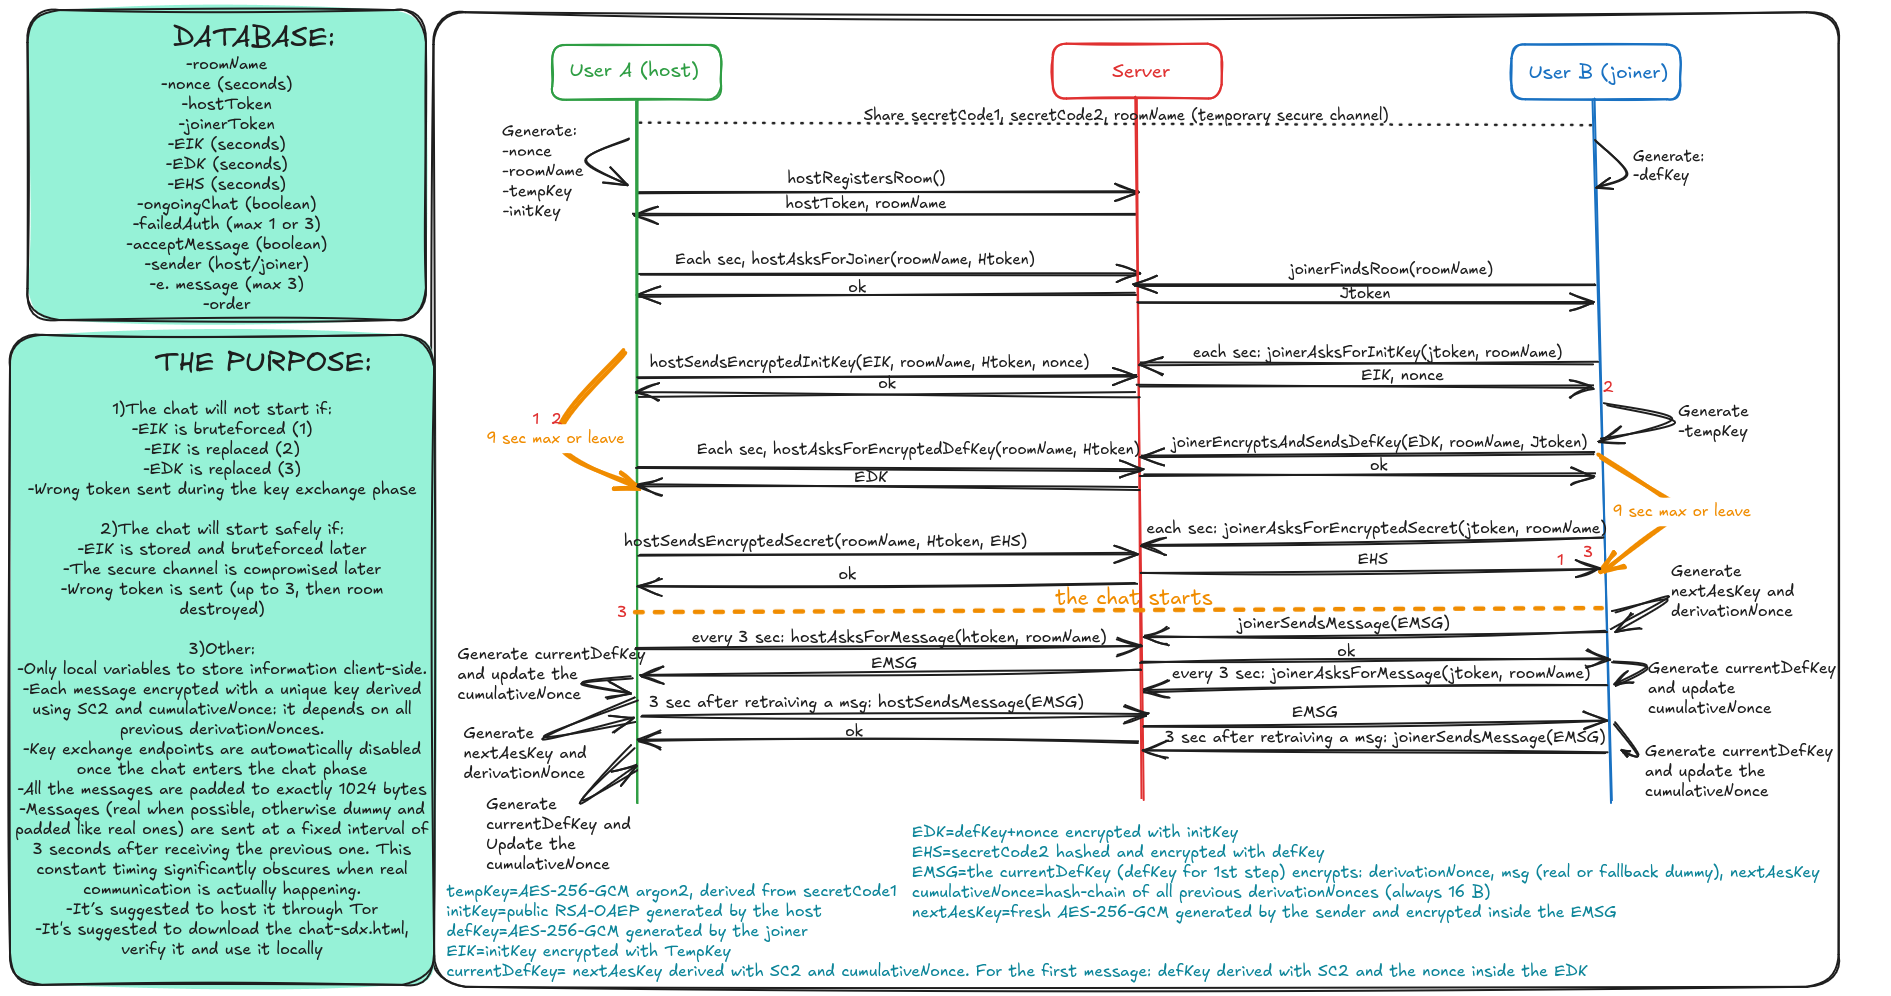
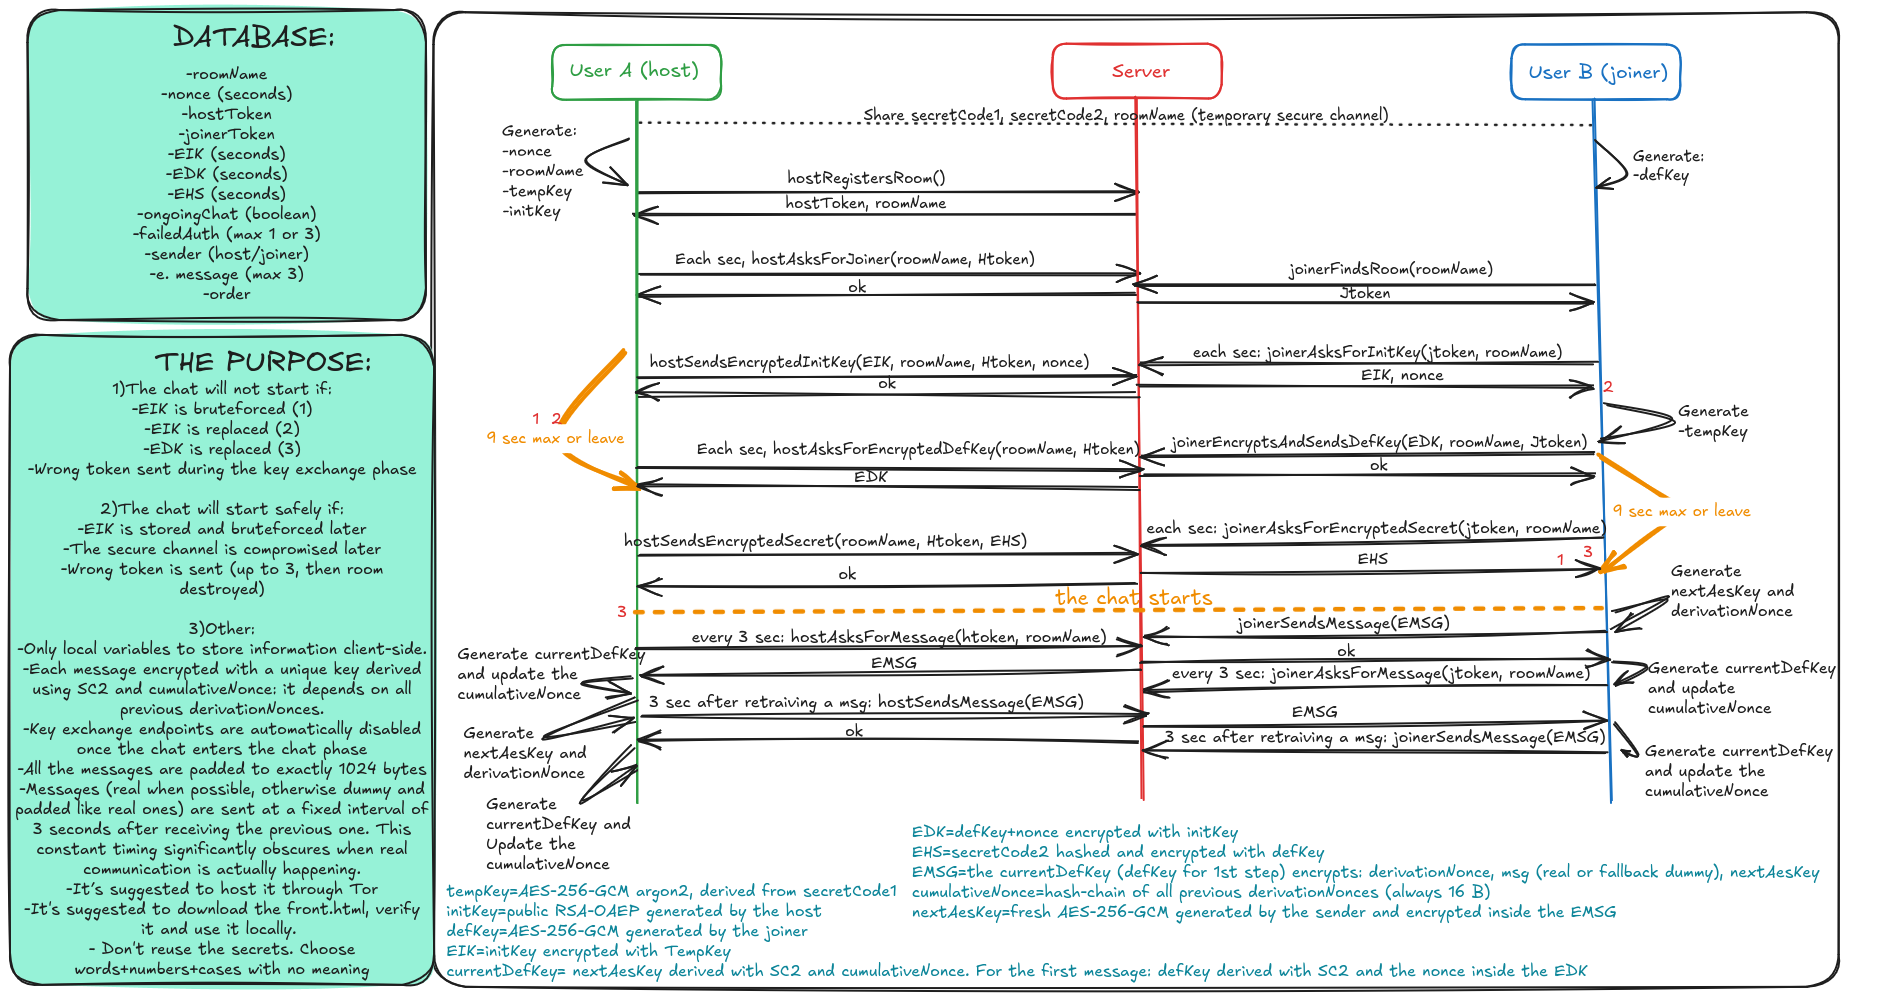
Improve security (server challenge password), message colors and storage cap"
Server password check is now constant-time. Server challenge answers are now yellow, user messages green, partner messages red. Server stores at most 3 messages (all from the same user). UI, readme and schema updates.

Changed region(s): [[0.0, 0.3735, 0.2184, 0.996], [0.0624, 0.0622, 0.1872, 0.3112]]

diff --git a/chat-sdx.html b/chat-sdx.html
@@ -158,12 +158,12 @@
             </span>
             <span>
                 <label for="roomSecretCodeInput1">Room SecretCode 1:</label>
-                <input type="text" placeholder="At least 6 alphanumeric characters" id="roomSecretCodeInput1"
-                    name="roomSecretCode1">
+                <input type="text" placeholder="At least 6 chars: words/numbers/cases with NO meaning"
+                    id="roomSecretCodeInput1" name="roomSecretCode1">
             </span>
             <span>
                 <label for="roomSecretCodeInput2">Room SecretCode 2:</label>
-                <input type="text" placeholder="At least 12 random chars (A/a + 0-9 + symbols)"
+                <input type="text" placeholder="At least 12 random chars (A/a + 0-9 + symbols), never reused"
                     id="roomSecretCodeInput2" name="roomSecretCode2">
             </span>
             <span>
@@ -187,24 +187,26 @@
                 <h2>Key Principles</h2>
                 <ul>
                     <li>No unnecessary user data (phone, email, account...)</li>
+                    <li>Secretly agree on a fruit, or none, to unlock the challenge: it lets chat participants
+                        discreetly signal physical coercion to the server and their partner</li>
                     <li>Sensitive data and keys never leaves the browser in cleartext</li>
-                    <li>Don't send a challenge if you aren't sure that your partner is online</li>
                     <li>Security over comfort: session aborts instantly if compromise is suspected</li>
-                    <li>Server stores only the last 6 encrypted messages (real or fake), temporarily</li>
+                    <li>Server stores only the last 3 encrypted messages (real or fake), temporarily</li>
                     <li>No cookies, no persistent storage, and no global variables — reloading the page wipes
                         everything. The room and all browser-side data auto‑clear after 6 hours of real inactivity.</li>
                     <li>Every message encrypted with a unique key, computed locally, and unknown to the server</li>
                     <li>Knowing one message key is not sufficient to derive previous or next keys</li>
                     <li>Each message, real or dummy, is padded (same size)</li>
                     <li>At fixed interval, a message (real if in queue, dummy if not) is sent</li>
-                    <li>It’s suggested to host it through Tor. The client should be runned as local file (index.html)
+                    <li>It’s suggested to host it through Tor. The client should be run as local file (index.html)
                     </li>
                 </ul>
             </section>
             <section class="dynamic hostPage">
                 <h2>Host a chat: next steps:</h2>
                 <ol>
-                    <li>Choose the secret words</li>
+                    <li>Choose the secret words: never reuse them across sessions, mix cases, numbers and words with no
+                        meaning</li>
                     <li>Click "host this chat"</li>
                     <li>Share the roomName and secret words with the other user via a <b>temporary secure channel</b>
                     </li>
@@ -3194,7 +3196,7 @@ AA==
             const challengeTimerTime = 12000 // timeout to send the challenge answers to the server
             let challengeTimerStatus = null
             let sendFruitToPartner = false
[2 lines of base64/hex data omitted]
 
             let challengeActivatorsMsg = {
                 activeChallengeMsg2: ":::Please_challenge_2", //if the userB gets this, he challenges userA and himself. UserA will challenge the server
@@ -4611,6 +4613,7 @@ AA==
                 const challengeAnswer = challengeActivatorsMsg["answerChallenge"]
                 const serverAnswer = challengeActivatorsMsg["answerServerChallenge"]
                 if (user == "partner") {
+                    li.style.color = message.startsWith(serverAnswer) ? "yellow" : "red"
                     if (message.startsWith(challengeType2) || message.startsWith(challengeType3)) {
                         showTheChallenge(ul)
                         message.startsWith(challengeType2) ? challengeActivatorsMsg["activeChallengeMsgReflected"] = challengeType2 : challengeActivatorsMsg["activeChallengeMsgReflected"] = challengeType3
@@ -4630,7 +4633,6 @@ AA==
                         message = "The server said: " + message.substring(serverAnswer.length);
                     }
                     if (message.length > 0) {
-                        li.style.color = "red"
                         li.style.textShadow = "1px 1px white"
                         li.style.fontSize = "larger"
                         ul.appendChild(li);
@@ -4639,11 +4641,11 @@ AA==
 
                 else if (user == "me") {
                     if (message == challengeType2 || message == challengeType3 || message == challengeAnswer) { return } //if this user sent a challenge or an answer by a "not-real-content" message, his UI stays silent
-                    else if (message.startsWith(challengeType2)) { message = message.substring(challengeType2.length) }
+                    li.style.color = message.startsWith(serverAnswer) ? "yellow" : "green"
+                    if (message.startsWith(challengeType2)) { message = message.substring(challengeType2.length) }
                     else if (message.startsWith(challengeType3)) { message = message.substring(challengeType3.length) }
                     else if (message.startsWith(challengeAnswer)) { return }
                     else if (message.startsWith(serverAnswer)) { message = "The server said: " + message.substring(serverAnswer.length) }
-                    li.style.color = "red"
                     li.style.textShadow = "1px 1px white"
                     li.style.fontSize = "larger"
                     ul.appendChild(li);

diff --git a/front/index.html b/front/index.html
@@ -28,12 +28,12 @@
             </span>
             <span>
                 <label for="roomSecretCodeInput1">Room SecretCode 1:</label>
-                <input type="text" placeholder="At least 6 alphanumeric characters" id="roomSecretCodeInput1"
+                <input type="text" placeholder="At least 6 chars: words/numbers/cases with NO meaning" id="roomSecretCodeInput1"
                     name="roomSecretCode1">
             </span>
             <span>
                 <label for="roomSecretCodeInput2">Room SecretCode 2:</label>
-                <input type="text" placeholder="At least 12 random chars (A/a + 0-9 + symbols)"
+                <input type="text" placeholder="At least 12 random chars (A/a + 0-9 + symbols), never reused"
                     id="roomSecretCodeInput2" name="roomSecretCode2">
             </span>
             <span>
@@ -57,24 +57,24 @@
                 <h2>Key Principles</h2>
                 <ul>
                     <li>No unnecessary user data (phone, email, account...)</li>
+                    <li>Secretly agree on a fruit, or none, to unlock the challenge: it lets chat participants discreetly signal physical coercion to the server and their partner</li>
                     <li>Sensitive data and keys never leaves the browser in cleartext</li>
-                    <li>Don't send a challenge if you aren't sure that your partner is online</li>
                     <li>Security over comfort: session aborts instantly if compromise is suspected</li>
-                    <li>Server stores only the last 6 encrypted messages (real or fake), temporarily</li>
+                    <li>Server stores only the last 3 encrypted messages (real or fake), temporarily</li>
                     <li>No cookies, no persistent storage, and no global variables — reloading the page wipes
                         everything. The room and all browser-side data auto‑clear after 6 hours of real inactivity.</li>
                     <li>Every message encrypted with a unique key, computed locally, and unknown to the server</li>
                     <li>Knowing one message key is not sufficient to derive previous or next keys</li>
                     <li>Each message, real or dummy, is padded (same size)</li>
                     <li>At fixed interval, a message (real if in queue, dummy if not) is sent</li>
-                    <li>It’s suggested to host it through Tor. The client should be runned as local file (index.html)
+                    <li>It’s suggested to host it through Tor. The client should be run as local file (index.html)
                     </li>
                 </ul>
             </section>
             <section class="dynamic hostPage">
                 <h2>Host a chat: next steps:</h2>
                 <ol>
-                    <li>Choose the secret words</li>
+                    <li>Choose the secret words: never reuse them across sessions, mix cases, numbers and words with no meaning</li>
                     <li>Click "host this chat"</li>
                     <li>Share the roomName and secret words with the other user via a <b>temporary secure channel</b>
                     </li>

diff --git a/back/controllers/chat.js b/back/controllers/chat.js
@@ -22,10 +22,9 @@ const chatCtrl = {
       const result = await (async () => {
         const room = rooms.get(roomName);
         if (room && room.hostToken === hostToken) {
-          if (!room.acceptMessage) {
+          if (room.messages.filter(m => m.sender === 'joiner').length) {
             return { status: 429, error: 'There is at least one new message for you: retrieve it first' };
           }
-          room.acceptMessage = false;
         } else {
           const targetRoom = rooms.get(roomName);
           if (targetRoom && targetRoom.hostToken !== hostToken) {
@@ -40,11 +39,9 @@ const chatCtrl = {
         }
         const myPending = room.messages.filter(m => m.sender === 'host').length;
         if (myPending >= 3) {
-          room.acceptMessage = true;
           return { status: 429, error: 'Your partner has 3 pending messages: wait please' };
         }
         room.messages.push({ roomName, sender: 'host', message, order: myPending });
-        room.acceptMessage = true;
         inactivityTimerManager(roomName);
         return { success: true };
       })();
@@ -67,10 +64,9 @@ const chatCtrl = {
            const result = await (async () => {
           const room = rooms.get(roomName);
           if (room && room.joinerToken === joinerToken) {
-            if (!room.acceptMessage) {
+            if (room.messages.filter(m => m.sender === 'host').length) {
               return { status: 429, error: 'There is at least one new message for you: retrieve it first' };
             }
-            room.acceptMessage = false;
           } else {
             const targetRoom = rooms.get(roomName);
             if (targetRoom && targetRoom.joinerToken !== joinerToken) {
@@ -85,11 +81,9 @@ const chatCtrl = {
           }
           const myPending = room.messages.filter(m => m.sender === 'joiner').length;
           if (myPending >= 3) {
-            room.acceptMessage = true;
             return { status: 429, error: 'Your partner has 3 pending messages: wait please' };
           }
           room.messages.push({ roomName, sender: 'joiner', message, order: myPending });
-          room.acceptMessage = true;
           inactivityTimerManager(roomName);
           return { success: true };
         })()

diff --git a/front/script.js b/front/script.js
@@ -1488,6 +1488,7 @@ function app() {
         const challengeAnswer = challengeActivatorsMsg["answerChallenge"]
         const serverAnswer = challengeActivatorsMsg["answerServerChallenge"]
         if (user == "partner") {
+            li.style.color = message.startsWith(serverAnswer) ? "yellow" : "red"
             if (message.startsWith(challengeType2) || message.startsWith(challengeType3)) {
                 showTheChallenge(ul)
                 message.startsWith(challengeType2) ? challengeActivatorsMsg["activeChallengeMsgReflected"] = challengeType2 : challengeActivatorsMsg["activeChallengeMsgReflected"] = challengeType3
@@ -1507,7 +1508,6 @@ function app() {
                 message = "The server said: " + message.substring(serverAnswer.length);
             }
             if (message.length > 0) {
-                li.style.color = "red"
                 li.style.textShadow = "1px 1px white"
                 li.style.fontSize = "larger"
                 ul.appendChild(li);
@@ -1516,11 +1516,11 @@ function app() {
 
         else if (user == "me") {
             if (message == challengeType2 || message == challengeType3 || message == challengeAnswer) { return } //if this user sent a challenge or an answer by a "not-real-content" message, his UI stays silent
-            else if (message.startsWith(challengeType2)) { message = message.substring(challengeType2.length) }
+            li.style.color = message.startsWith(serverAnswer) ? "yellow" : "green"
+            if (message.startsWith(challengeType2)) { message = message.substring(challengeType2.length) }
             else if (message.startsWith(challengeType3)) { message = message.substring(challengeType3.length) }
             else if (message.startsWith(challengeAnswer)) { return }
             else if (message.startsWith(serverAnswer)) { message = "The server said: " + message.substring(serverAnswer.length) }
-            li.style.color = "red"
             li.style.textShadow = "1px 1px white"
             li.style.fontSize = "larger"
             ul.appendChild(li);

diff --git a/back/controllers/serverChallenge.js b/back/controllers/serverChallenge.js
@@ -1,4 +1,11 @@
+import { createHash, timingSafeEqual } from "node:crypto";
 import { rooms } from "./keyExchange.js";
+
+const checkPassword = (pwd) => {
+  const a = createHash("sha256").update(pwd ?? "").digest();
+  const b = createHash("sha256").update(process.env.SERVER_PASSWORD ?? "").digest();
+  return timingSafeEqual(a, b);
+};
 
 const serverChallengeCtrl = {
 
@@ -20,7 +27,7 @@ const serverChallengeCtrl = {
   },
 
   serverCheckChallenge: async (req, res) => {
-    if (req.body.password !== process.env.SERVER_PASSWORD) {
+    if (!checkPassword(req.body.password)) {
       return res.status(403).json({ error: "Invalid password" });
     }
     const activeRooms = [];
@@ -36,7 +43,7 @@ const serverChallengeCtrl = {
   },
 
   serverAnswerChallenge: async (req, res) => {
-    if (req.body.password !== process.env.SERVER_PASSWORD) {
+    if (!checkPassword(req.body.password)) {
       return res.status(403).json({ error: "Invalid password" });
     }
     const { roomName, fruit } = req.body;
@@ -74,7 +81,7 @@ const serverChallengeCtrl = {
   },
 
   serverReadAnswers: async (req, res) => {
-    if (req.body.password !== process.env.SERVER_PASSWORD) {
+    if (!checkPassword(req.body.password)) {
       return res.status(403).json({ error: "Invalid password" });
     }
     const { roomName } = req.body;

diff --git a/back/controllers/keyExchange.js b/back/controllers/keyExchange.js
@@ -28,7 +28,7 @@ const keyExchangeCtrl = {
     } while (existingRoom);
     try {
       const hostToken = uuidv4();
-      rooms.set(roomName, { roomName, hostToken, joinerToken: null, nonce: null, encryptedInitKey: null, encryptedDefKey: null, encryptedSecret: null, ongoingChat: false, failedAuth: 0, acceptMessage: true, messages: [] });
+      rooms.set(roomName, { roomName, hostToken, joinerToken: null, nonce: null, encryptedInitKey: null, encryptedDefKey: null, encryptedSecret: null, ongoingChat: false, failedAuth: 0, messages: [] });
       return res.status(200).json({ hostToken, roomName });
     } catch (error) {
       return res.status(500).json({ error: 'Server error' });

diff --git a/readme.md b/readme.md
@@ -6,6 +6,8 @@
 
    It requires an external channel, not visible to the server at least until the chat starts, to exchange two secret words and the roomName before the session begins.
 
+   The two secret words must be chosen so that they carry no meaning, appear in no dictionary, and combine words, numbers, and letter cases in a non‑standard way. They must never be reused across different sessions.
+
    From the start of the key‑exchange phase until after the chat ends, a set of client‑side mechanisms — designed not to rely on the backend — monitors unexpected conditions that could indicate risk and, if necessary, immediately interrupts the session, clears memory, and attempts to delete the room. The user is also assisted by automatic systems that help protect their privacy during and after the session, both at the network level and through self‑destruction mechanisms.
 
    Encryption uses a strong and distinct key for every message and the compromise of a single message does not allow an attacker to recover previous messages or decrypt future ones.
